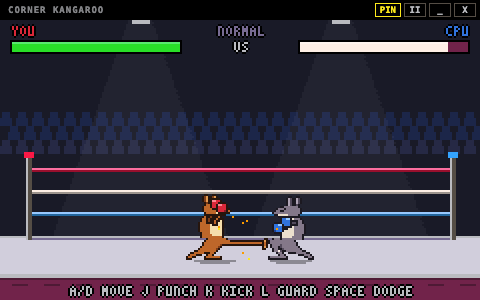
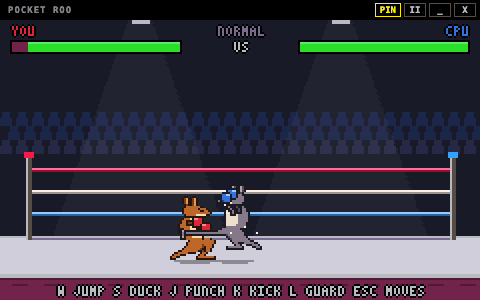
[release] 1.0.1

diff --git a/index.html b/index.html
@@ -7,11 +7,11 @@
       content="default-src 'none'; script-src 'self'; style-src 'self'; base-uri 'none'; form-action 'none'"
     />
     <meta name="viewport" content="width=device-width, initial-scale=1.0" />
-    <title>Corner Kangaroo</title>
+    <title>Pocket Roo</title>
   </head>
   <body>
     <header id="titlebar">
-      <span class="title">CORNER KANGAROO</span>
+      <span class="title">POCKET ROO</span>
       <div class="controls">
         <button id="btn-pin" class="active" type="button" tabindex="-1" title="Always on top">PIN</button>
         <button id="btn-pause" type="button" tabindex="-1" title="Pause (Esc)">II</button>

diff --git a/src/ui/ModeSelectMenu.ts b/src/ui/ModeSelectMenu.ts
@@ -47,7 +47,7 @@ export class ModeSelectMenu {
   draw(ctx: CanvasRenderingContext2D, time: number): void {
     ctx.fillStyle = 'rgba(26, 28, 44, 0.7)';
     ctx.fillRect(0, 0, WORLD_WIDTH, WORLD_HEIGHT);
-    drawCenteredText(ctx, 'CORNER KANGAROO', CENTER, 9, PALETTE.yellow, 2);
+    drawCenteredText(ctx, 'POCKET ROO', CENTER, 9, PALETTE.yellow, 2);
     drawCenteredText(ctx, 'PICK A MODE', CENTER, 22, PALETTE.lightGrey);
 
     CARDS.forEach((card, index) => {
